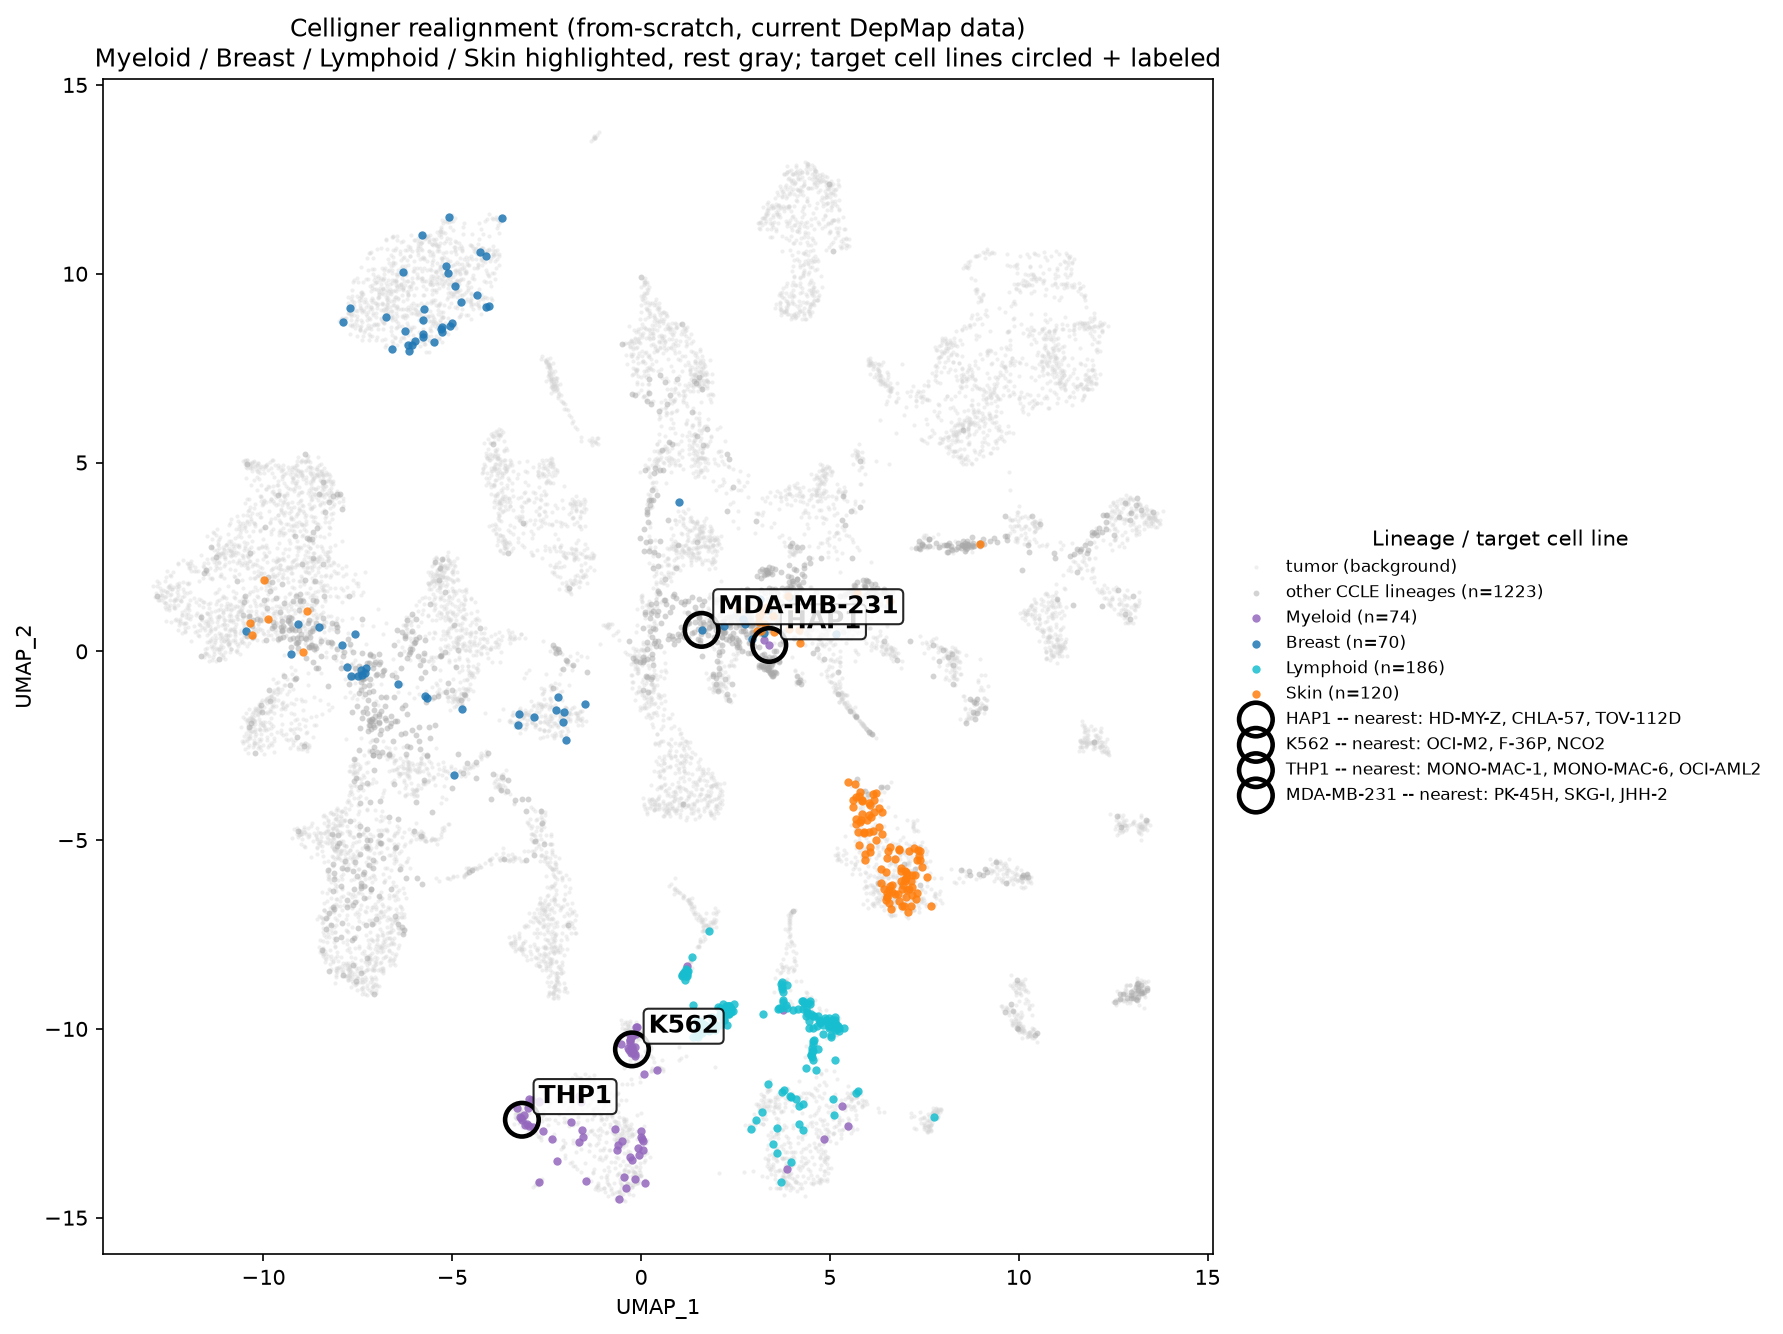
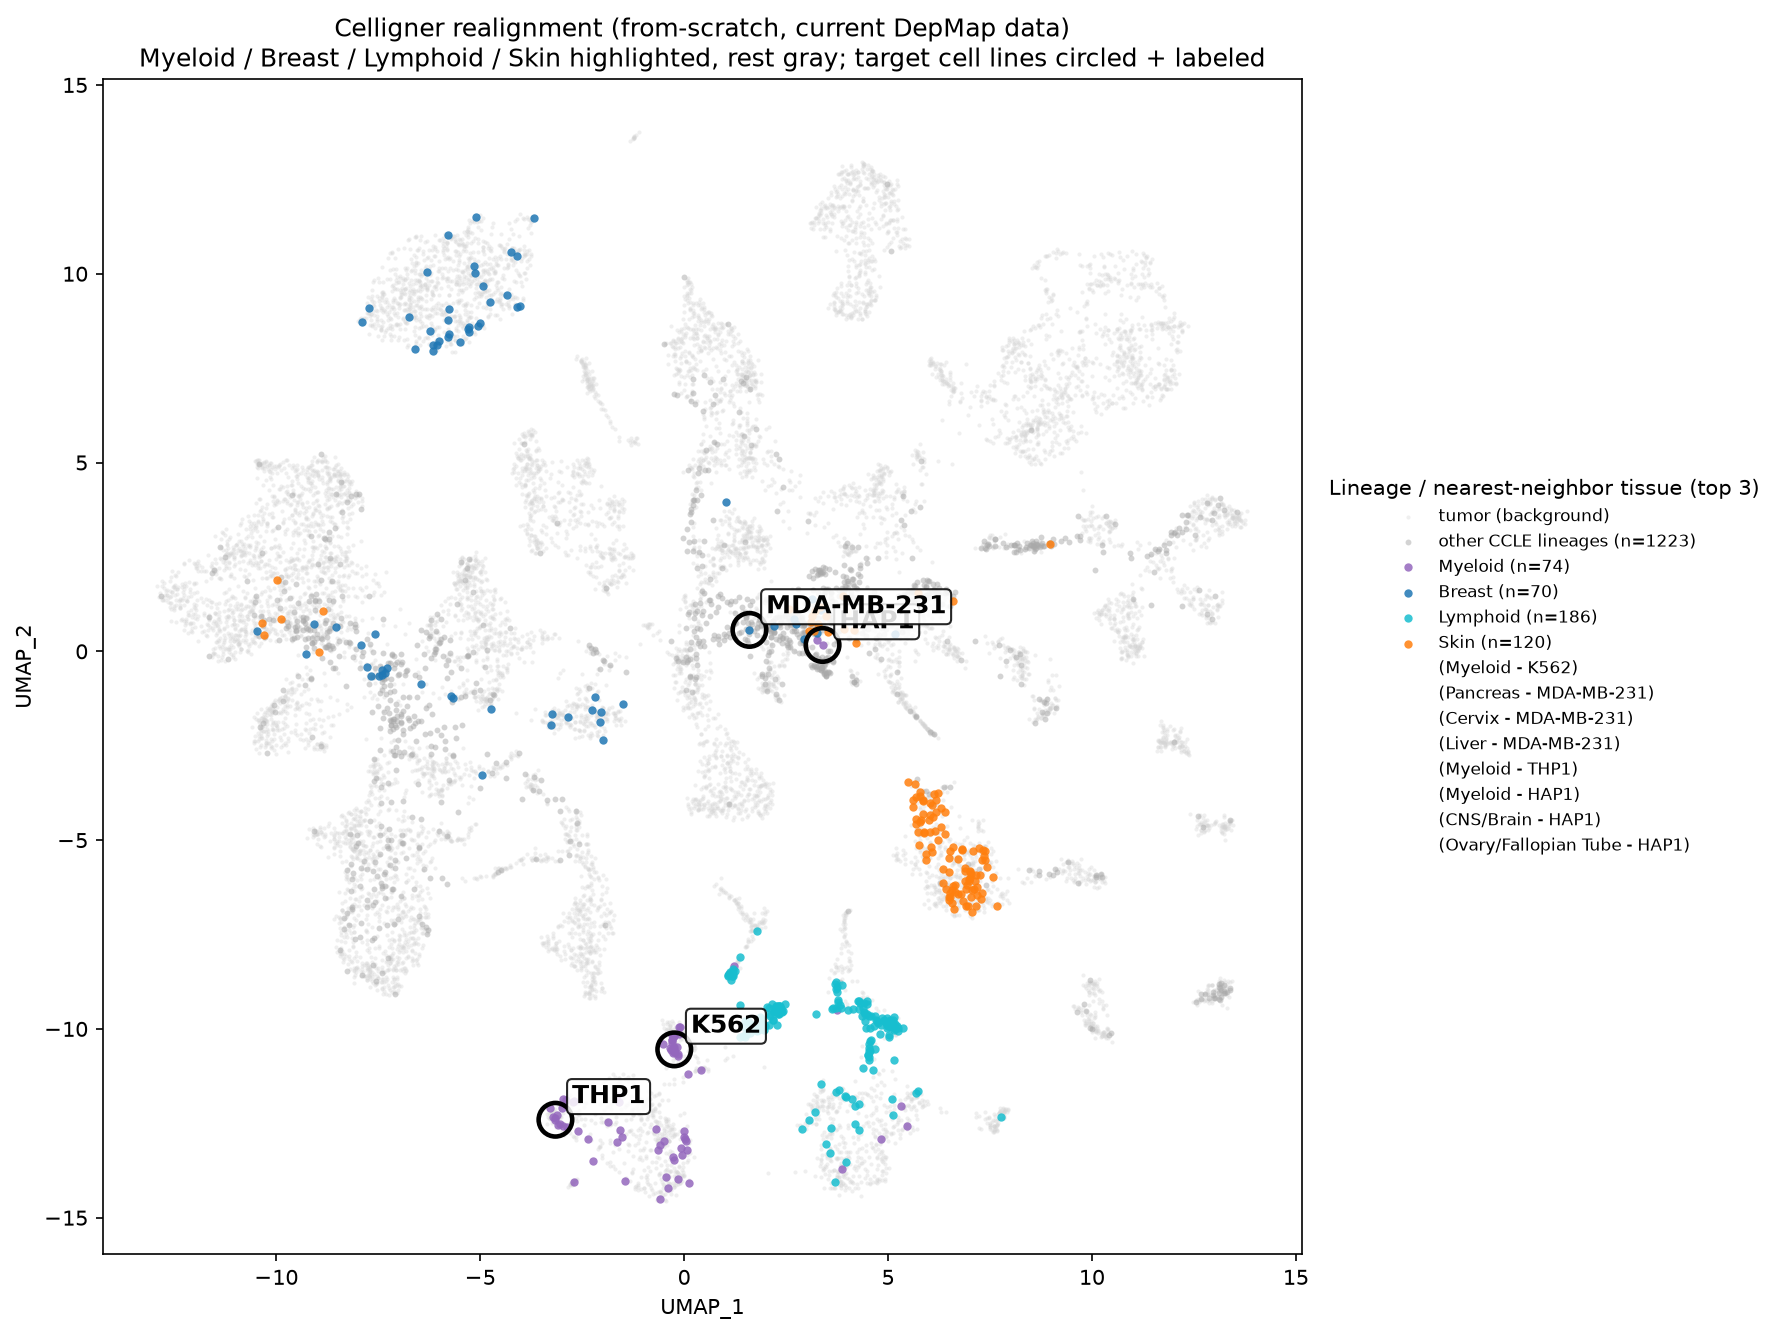
Legend: pair nearest-neighbor tissue with target as "(tissue - target)"
Replaces named-cell-line legend entries with lineage-target pairs, e.g.
"(Liver - MDA-MB-231)", "(Myeloid - K562)" -- deduplicated per target so
K562/THP1 (whose top-3 neighbors are all Myeloid) get one entry each, while
MDA-MB-231 (Pancreas/Cervix/Liver) and HAP1 (Myeloid/CNS/Ovary) get three,
visually showing the same "no coherent neighborhood" finding at a glance.

Drops the now-unused --model-csv argument (cell-line names no longer needed
now that the legend shows lineage, not specific neighbor names).

Claude-Session: https://claude.ai/code/session_01UcjykRsuQ22PHHGWvPgWq3

diff --git a/scripts/plot_celligner_validation.py b/scripts/plot_celligner_validation.py
@@ -28,34 +28,40 @@ TARGET_CELL_LINES = {
 HIGHLIGHT_LINEAGES = {
     "Myeloid": "tab:purple", "Breast": "tab:blue", "Lymphoid": "tab:cyan", "Skin": "tab:orange",
 }
-N_NEIGHBOR_NAMES = 3  # how many nearest-neighbor cell-line names to show per target in the legend
+N_NEIGHBORS_CHECKED = 3  # how many nearest CCLE neighbors to check per target
 
 
-def _nearest_neighbor_names(cls, name_map):
-    """For each target, return its N_NEIGHBOR_NAMES nearest CCLE neighbors' names + lineage."""
+def _nearest_neighbor_lineage_pairs(cls):
+    """For each target, return its nearest neighbors' (lineage, target) pairs,
+    deduplicated by lineage and kept in nearest-first order -- e.g. MDA-MB-231's
+    3 nearest neighbors are Pancreas/Cervix/Liver, all different, so it gets 3
+    pairs; K562's 3 nearest are all Myeloid, so it gets just 1."""
     coords = cls[["UMAP_1", "UMAP_2"]].to_numpy()
     ids = cls["sampleID"].to_numpy()
+    lineages = cls["lineage"].to_numpy()
     D = cdist(coords, coords)
     np.fill_diagonal(D, np.inf)
 
-    result = {}
+    pairs = []
     for depmap_id, target_name in TARGET_CELL_LINES.items():
         matches = np.where(ids == depmap_id)[0]
         if len(matches) == 0:
             continue
         i = matches[0]
-        order = np.argsort(D[i])[:N_NEIGHBOR_NAMES]
-        names = [name_map.get(ids[j], ids[j]) for j in order]
-        result[target_name] = names
-    return result
+        order = np.argsort(D[i])[:N_NEIGHBORS_CHECKED]
+        seen = set()
+        for j in order:
+            lin = lineages[j]
+            if lin not in seen:
+                seen.add(lin)
+                pairs.append((lin, target_name))
+    return pairs
 
 
 def main():
     parser = argparse.ArgumentParser(description=__doc__)
     parser.add_argument("--full-coords", default="data/external/celligner_validation_data/full_umap_coords.csv",
                         help="full_umap_coords.csv from the R realignment script")
-    parser.add_argument("--model-csv", default="data/external/celligner_validation_data/depmap_model.csv",
-                        help="DepMap Model.csv, for ModelID -> CellLineName")
     parser.add_argument("--output", default="results/lncrna_rra_day14/celligner_embedding_comparison/alignment_validation.png")
     args = parser.parse_args()
 
@@ -64,9 +70,7 @@ def main():
     cls = df[df["type"] == "CL"].copy()
     cls["lineage"] = cls["lineage"].fillna("Unknown")
 
-    model = pd.read_csv(args.model_csv)
-    name_map = dict(zip(model["ModelID"], model["CellLineName"]))
-    neighbor_names = _nearest_neighbor_names(cls, name_map)
+    neighbor_pairs = _nearest_neighbor_lineage_pairs(cls)
 
     other = cls[~cls["lineage"].isin(HIGHLIGHT_LINEAGES)]
 
@@ -84,18 +88,23 @@ def main():
     for _, row in target_rows.iterrows():
         name = TARGET_CELL_LINES[row["sampleID"]]
         ax.scatter(row["UMAP_1"], row["UMAP_2"], s=260, facecolors="none", edgecolors="black",
-                   linewidths=2.2, marker="o", zorder=5,
-                   label=f"{name} -- nearest: {', '.join(neighbor_names.get(name, []))}")
+                   linewidths=2.2, marker="o", zorder=5)
         ax.annotate(name, (row["UMAP_1"], row["UMAP_2"]), xytext=(8, 8), textcoords="offset points",
                     fontsize=12, fontweight="bold", zorder=6,
                     bbox=dict(boxstyle="round,pad=0.2", fc="white", ec="black", alpha=0.85))
+
+    # Proxy (invisible) legend entries: one per (nearest-neighbor lineage, target) pair,
+    # e.g. "(Liver - MDA-MB-231)" -- these aren't separate plotted groups, just labels.
+    for lin, name in neighbor_pairs:
+        ax.scatter([], [], s=0, label=f"({lin} - {name})")
 
     ax.set_xlabel("UMAP_1")
     ax.set_ylabel("UMAP_2")
     ax.set_title("Celligner realignment (from-scratch, current DepMap data)\n"
                  "Myeloid / Breast / Lymphoid / Skin highlighted, rest gray; "
                  "target cell lines circled + labeled")
-    ax.legend(loc="center left", bbox_to_anchor=(1.01, 0.5), fontsize=8, frameon=False, title="Lineage / target cell line")
+    ax.legend(loc="center left", bbox_to_anchor=(1.01, 0.5), fontsize=8, frameon=False,
+              title=f"Lineage / nearest-neighbor tissue (top {N_NEIGHBORS_CHECKED})")
     fig.tight_layout()
     fig.savefig(args.output, dpi=150, bbox_inches="tight")
     print(f"Saved -> {args.output}")
